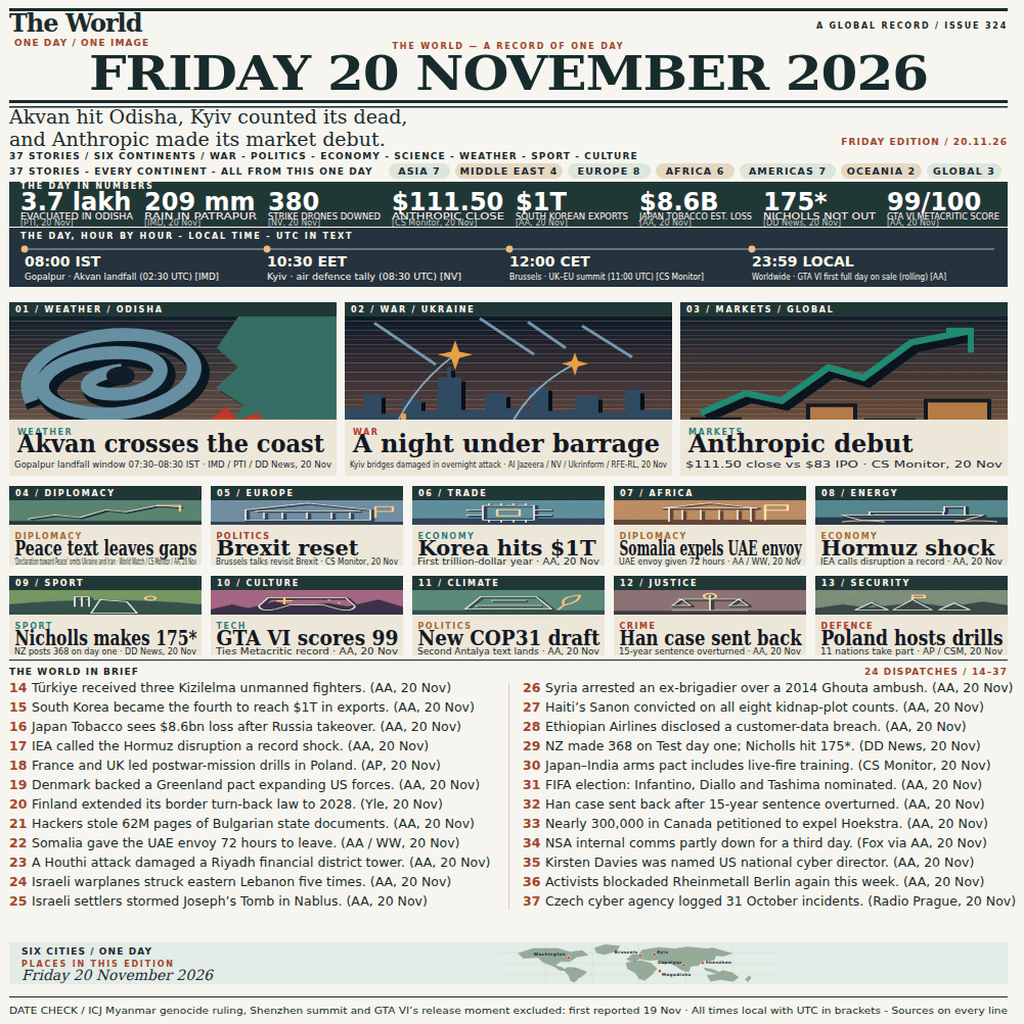
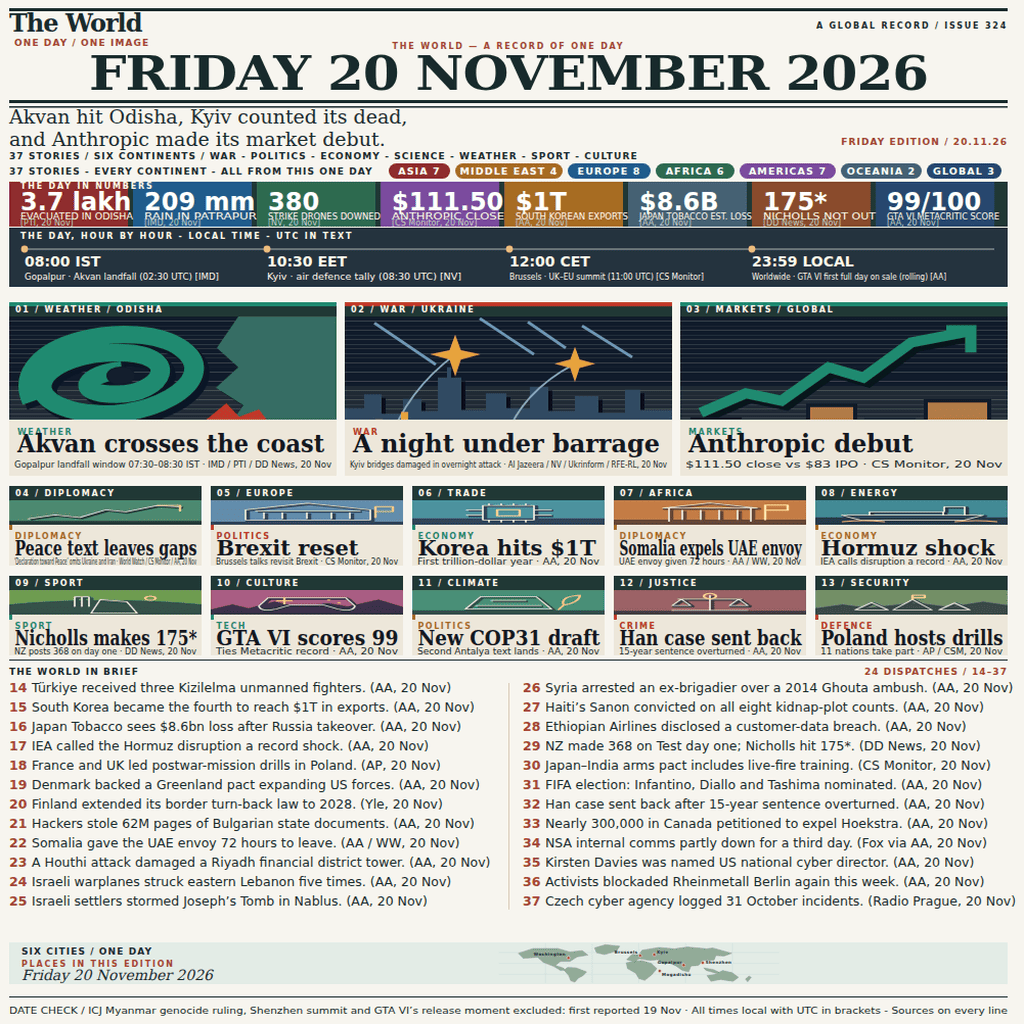
v5: colored stat tiles, region chips, bolder scenes

Changed region(s): [[0.0, 0.2812, 1.0, 0.4375], [0.0, 0.1562, 1.0, 0.2188], [0.5938, 0.4688, 0.7812, 0.5312]]

diff --git a/cand.html b/cand.html
@@ -27,13 +27,20 @@ text.label[text-anchor="middle"]{font-size:9.5px;font-weight:bold}
 g[data-number="1"],g[data-number="2"],g[data-number="3"]{transform:translateY(10px)}
 g[data-number="1"]>rect:first-child,g[data-number="2"]>rect:first-child,g[data-number="3"]>rect:first-child{height:170px}
 g[data-number="1"]>g>svg,g[data-number="2"]>g>svg,g[data-number="3"]>g>svg{height:101px}
-g[data-number="1"]>rect:nth-of-type(3),g[data-number="2"]>rect:nth-of-type(3),g[data-number="3"]>rect:nth-of-type(3),g[data-number="1"]>text:not(.micro),g[data-number="2"]>text:not(.micro),g[data-number="3"]>text:not(.micro){transform:translateY(-35px)}
+g[data-number="1"]>rect:nth-of-type(4),g[data-number="2"]>rect:nth-of-type(4),g[data-number="3"]>rect:nth-of-type(4),g[data-number="1"]>text:not(.micro),g[data-number="2"]>text:not(.micro),g[data-number="3"]>text:not(.micro){transform:translateY(-35px)}
 g[data-number="4"],g[data-number="5"],g[data-number="6"],g[data-number="7"],g[data-number="8"]{transform:translateY(-19px)}
 g[data-number="9"],g[data-number="10"],g[data-number="11"],g[data-number="12"],g[data-number="13"]{transform:translateY(-6px)}
 g[aria-label]:not([data-number="1"]):not([data-number="2"]):not([data-number="3"])>rect:first-child{height:78px}
 g[data-number="4"]>g>svg,g[data-number="5"]>g>svg,g[data-number="6"]>g>svg,g[data-number="7"]>g>svg,g[data-number="8"]>g>svg,g[data-number="9"]>g>svg,g[data-number="10"]>g>svg,g[data-number="11"]>g>svg,g[data-number="12"]>g>svg,g[data-number="13"]>g>svg{height:31px}
 g[data-number="4"]>rect:nth-of-type(3),g[data-number="5"]>rect:nth-of-type(3),g[data-number="6"]>rect:nth-of-type(3),g[data-number="7"]>rect:nth-of-type(3),g[data-number="8"]>rect:nth-of-type(3),g[data-number="9"]>rect:nth-of-type(3),g[data-number="10"]>rect:nth-of-type(3),g[data-number="11"]>rect:nth-of-type(3),g[data-number="12"]>rect:nth-of-type(3),g[data-number="13"]>rect:nth-of-type(3),g[data-number="4"]>text:not(.micro),g[data-number="5"]>text:not(.micro),g[data-number="6"]>text:not(.micro),g[data-number="7"]>text:not(.micro),g[data-number="8"]>text:not(.micro),g[data-number="9"]>text:not(.micro),g[data-number="10"]>text:not(.micro),g[data-number="11"]>text:not(.micro),g[data-number="12"]>text:not(.micro),g[data-number="13"]>text:not(.micro){transform:translateY(7px)}
 .rust{fill:#a34430}
+text.label[y="183"][text-anchor="middle"]{fill:#fff;font-weight:bold}
+g[data-number="1"]>g>svg>rect,g[data-number="2"]>g>svg>rect,g[data-number="3"]>g>svg>rect{fill:#101b2b}
+g[data-number="1"]>g>svg>rect:nth-child(n+16),g[data-number="2"]>g>svg>rect:nth-child(n+16),g[data-number="3"]>g>svg>rect:nth-child(n+16){fill:#202b35}
+g[data-number="1"]>g>svg>path[fill="#c0392b"]{fill:#c0392b;stroke:#c0392b;stroke-width:6}
+g[data-number="1"]>g>svg>path[stroke="#668fa2"]{stroke:#1f8a70;stroke-width:19}
+g[data-number="2"]>g>svg>g[fill="#e6a23c"]{fill:#e6a23c;stroke:#e6a23c;stroke-width:4}
+g[data-number="3"]>g>svg>path[stroke="#1f8a70"]{stroke:#1f8a70;stroke-width:11}
 </style>
 </head>
 <body>
@@ -53,21 +60,29 @@ g[data-number="4"]>rect:nth-of-type(3),g[data-number="5"]>rect:nth-of-type(3),g[
 <text x="1000" y="154" class="label rust" text-anchor="end">FRIDAY EDITION  /  20.11.26</text>
 <text x="24" y="168" class="label">37 STORIES / SIX CONTINENTS / WAR - POLITICS - ECONOMY - SCIENCE - WEATHER - SPORT - CULTURE</text>
 <text x="24" y="183" class="label">37 STORIES - EVERY CONTINENT - ALL FROM THIS ONE DAY</text>
-<rect x="395" y="172" width="60" height="15" rx="7.5" fill="#dce6da"/>
+<rect x="395" y="172" width="60" height="15" rx="7.5" fill="#8f2d2d"/>
 <text x="425" y="183" class="label" text-anchor="middle">ASIA 7</text>
-<rect x="460" y="172" width="105" height="15" rx="7.5" fill="#e6d8c2"/>
+<rect x="460" y="172" width="105" height="15" rx="7.5" fill="#a66c22"/>
 <text x="512.5" y="183" class="label" text-anchor="middle">MIDDLE EAST 4</text>
-<rect x="570" y="172" width="81" height="15" rx="7.5" fill="#dce6da"/>
+<rect x="570" y="172" width="81" height="15" rx="7.5" fill="#1f5c8b"/>
 <text x="610.5" y="183" class="label" text-anchor="middle">EUROPE 8</text>
-<rect x="656" y="172" width="77" height="15" rx="7.5" fill="#e6d8c2"/>
+<rect x="656" y="172" width="77" height="15" rx="7.5" fill="#2d6a4f"/>
 <text x="694.5" y="183" class="label" text-anchor="middle">AFRICA 6</text>
-<rect x="738" y="172" width="94" height="15" rx="7.5" fill="#dce6da"/>
+<rect x="738" y="172" width="94" height="15" rx="7.5" fill="#7a4b9d"/>
 <text x="785" y="183" class="label" text-anchor="middle">AMERICAS 7</text>
-<rect x="837" y="172" width="79" height="15" rx="7.5" fill="#e6d8c2"/>
+<rect x="837" y="172" width="79" height="15" rx="7.5" fill="#456173"/>
 <text x="876.5" y="183" class="label" text-anchor="middle">OCEANIA 2</text>
-<rect x="921" y="172" width="73" height="15" rx="7.5" fill="#dce6da"/>
+<rect x="921" y="172" width="73" height="15" rx="7.5" fill="#27476e"/>
 <text x="957.5" y="183" class="label" text-anchor="middle">GLOBAL 3</text>
 <rect x="24" y="190" width="976" height="44" fill="#203835"/>
+<rect x="24" y="190" width="116" height="44" fill="#8f2d2d"/>
+<rect x="145" y="190" width="116" height="44" fill="#1f5c8b"/>
+<rect x="266" y="190" width="116" height="44" fill="#2d6a4f"/>
+<rect x="387" y="190" width="116" height="44" fill="#7a4b9d"/>
+<rect x="508" y="190" width="116" height="44" fill="#a66c22"/>
+<rect x="629" y="190" width="116" height="44" fill="#456173"/>
+<rect x="750" y="190" width="116" height="44" fill="#8a4b2d"/>
+<rect x="871" y="190" width="116" height="44" fill="#27476e"/>
 <text x="35" y="197" class="micro reverse">THE DAY IN NUMBERS</text>
 <g data-stat="1">
 <text x="35" y="218" class="number">3.7 lakh</text>
@@ -129,7 +144,7 @@ g[data-number="4"]>rect:nth-of-type(3),g[data-number="5"]>rect:nth-of-type(3),g[
 <g transform="translate(24 298)" aria-hidden="true">
 <svg x="0" y="14" width="320" height="136" viewBox="0 0 320 150" preserveAspectRatio="none" overflow="hidden"><rect x="0" y="0.00" width="320" height="5.1" fill="#16202e"/><rect x="0" y="5.00" width="320" height="5.1" fill="#1a222f"/><rect x="0" y="10.00" width="320" height="5.1" fill="#1d2430"/><rect x="0" y="15.00" width="320" height="5.1" fill="#212731"/><rect x="0" y="20.00" width="320" height="5.1" fill="#252932"/><rect x="0" y="25.00" width="320" height="5.1" fill="#282b33"/><rect x="0" y="30.00" width="320" height="5.1" fill="#2c2d34"/><rect x="0" y="35.00" width="320" height="5.1" fill="#302f35"/><rect x="0" y="40.00" width="320" height="5.1" fill="#333236"/><rect x="0" y="45.00" width="320" height="5.1" fill="#373437"/><rect x="0" y="50.00" width="320" height="5.1" fill="#3b3638"/><rect x="0" y="55.00" width="320" height="5.1" fill="#3e3839"/><rect x="0" y="60.00" width="320" height="5.1" fill="#423a3a"/><rect x="0" y="65.00" width="320" height="5.1" fill="#463d3b"/><rect x="0" y="70.00" width="320" height="5.1" fill="#493f3c"/><rect x="0" y="75.00" width="320" height="5.1" fill="#4d413e"/><rect x="0" y="80.00" width="320" height="5.1" fill="#50433f"/><rect x="0" y="85.00" width="320" height="5.1" fill="#544640"/><rect x="0" y="90.00" width="320" height="5.1" fill="#584841"/><rect x="0" y="95.00" width="320" height="5.1" fill="#5b4a42"/><rect x="0" y="100.00" width="320" height="5.1" fill="#5f4c43"/><rect x="0" y="105.00" width="320" height="5.1" fill="#634e44"/><rect x="0" y="110.00" width="320" height="5.1" fill="#665145"/><rect x="0" y="115.00" width="320" height="5.1" fill="#6a5346"/><rect x="0" y="120.00" width="320" height="5.1" fill="#6e5547"/><rect x="0" y="125.00" width="320" height="5.1" fill="#715748"/><rect x="0" y="130.00" width="320" height="5.1" fill="#755949"/><rect x="0" y="135.00" width="320" height="5.1" fill="#795c4a"/><rect x="0" y="140.00" width="320" height="5.1" fill="#7c5e4b"/><rect x="0" y="145.00" width="320" height="5.1" fill="#80604c"/><path d="M224 0L203 34 224 55 202 77 229 96 214 119 248 150H320V0Z" fill="#0a151e" transform="translate(5 4)"/><path d="M224 0L203 34 224 55 202 77 229 96 214 119 248 150H320V0Z" fill="#366d64"/><path d="M22 92C-4 26 126 0 169 35S129 119 65 102 38 39 105 39 151 84 105 84 76 61 110 58" fill="none" stroke="#0c1723" stroke-width="20" transform="translate(5 5)"/><path d="M22 92C-4 26 126 0 169 35S129 119 65 102 38 39 105 39 151 84 105 84 76 61 110 58" fill="none" stroke="#668fa2" stroke-width="14"/><ellipse cx="109" cy="64" rx="14" ry="10" fill="#101d2b"/><path d="M191 117l21-19 12 14 19-8 19 28-39-10-16 11Z" fill="#c0392b"/><path d="M14 132l76-11m-46 23 86-11" stroke="#7aa3ad" stroke-width="3"/></svg>
 </g>
-<rect x="24" y="298" width="320" height="14" fill="#203835"/>
+<rect x="24" y="298" width="320" height="4" fill="#1f8a70"/><rect x="24" y="302" width="320" height="10" fill="#203835"/>
 <text x="30" y="308" class="micro reverse">01  /  WEATHER / ODISHA</text>
 <rect x="24" y="448" width="320" height="55" fill="#ede7da"/>
 <text x="32" y="463" class="kicker" style="fill:#1f8a70">WEATHER</text>
@@ -141,7 +156,7 @@ g[data-number="4"]>rect:nth-of-type(3),g[data-number="5"]>rect:nth-of-type(3),g[
 <g transform="translate(352 298)" aria-hidden="true">
 <svg x="0" y="14" width="320" height="136" viewBox="0 0 320 150" preserveAspectRatio="none" overflow="hidden"><rect x="0" y="0.00" width="320" height="5.1" fill="#101927"/><rect x="0" y="5.00" width="320" height="5.1" fill="#141b28"/><rect x="0" y="10.00" width="320" height="5.1" fill="#171d29"/><rect x="0" y="15.00" width="320" height="5.1" fill="#1b1f2b"/><rect x="0" y="20.00" width="320" height="5.1" fill="#1e212c"/><rect x="0" y="25.00" width="320" height="5.1" fill="#22222d"/><rect x="0" y="30.00" width="320" height="5.1" fill="#25242e"/><rect x="0" y="35.00" width="320" height="5.1" fill="#29262f"/><rect x="0" y="40.00" width="320" height="5.1" fill="#2c2830"/><rect x="0" y="45.00" width="320" height="5.1" fill="#302a32"/><rect x="0" y="50.00" width="320" height="5.1" fill="#332c33"/><rect x="0" y="55.00" width="320" height="5.1" fill="#372e34"/><rect x="0" y="60.00" width="320" height="5.1" fill="#3a3035"/><rect x="0" y="65.00" width="320" height="5.1" fill="#3e3236"/><rect x="0" y="70.00" width="320" height="5.1" fill="#413437"/><rect x="0" y="75.00" width="320" height="5.1" fill="#453539"/><rect x="0" y="80.00" width="320" height="5.1" fill="#48373a"/><rect x="0" y="85.00" width="320" height="5.1" fill="#4c393b"/><rect x="0" y="90.00" width="320" height="5.1" fill="#4f3b3c"/><rect x="0" y="95.00" width="320" height="5.1" fill="#533d3d"/><rect x="0" y="100.00" width="320" height="5.1" fill="#563f3e"/><rect x="0" y="105.00" width="320" height="5.1" fill="#5a4140"/><rect x="0" y="110.00" width="320" height="5.1" fill="#5d4341"/><rect x="0" y="115.00" width="320" height="5.1" fill="#614542"/><rect x="0" y="120.00" width="320" height="5.1" fill="#644743"/><rect x="0" y="125.00" width="320" height="5.1" fill="#684844"/><rect x="0" y="130.00" width="320" height="5.1" fill="#6b4a45"/><rect x="0" y="135.00" width="320" height="5.1" fill="#6f4c47"/><rect x="0" y="140.00" width="320" height="5.1" fill="#724e48"/><rect x="0" y="145.00" width="320" height="5.1" fill="#765049"/><path d="M0 127V99H19V84H36V105H57V89H75V102H91V66H100V55H104V66H114V101H138V83H158V99H181V76H199V102H225V86H248V104H274V79H289V101H320V150H0Z" fill="#080f19" transform="translate(4 4)"/><path d="M0 127V99H19V84H36V105H57V89H75V102H91V66H100V55H104V66H114V101H138V83H158V99H181V76H199V102H225V86H248V104H274V79H289V101H320V150H0Z" fill="#304a62"/><path d="M29 7l60 45M132 2l53 39M232 10l49 34M179 6l37 28" stroke="#7498b2" stroke-width="3"/><path d="M43 137Q60 81 108 41M155 138Q170 83 225 51" fill="none" stroke="#8ba8bb" stroke-width="2"/><g fill="#e6a23c"><path d="M108 26l4 12 13 3-13 4-4 13-4-13-13-4 13-3Z"/><path d="M225 39l3 9 10 3-10 3-3 10-3-10-10-3 10-3Z"/><path d="M30 113h5v7h-5m25-15h5v7h-5m96 7h5v7h-5m88-2h5v7h-5"/></g></svg>
 </g>
-<rect x="352" y="298" width="320" height="14" fill="#203835"/>
+<rect x="352" y="298" width="320" height="4" fill="#c0392b"/><rect x="352" y="302" width="320" height="10" fill="#203835"/>
 <text x="358" y="308" class="micro reverse">02  /  WAR / UKRAINE</text>
 <rect x="352" y="448" width="320" height="55" fill="#ede7da"/>
 <text x="360" y="463" class="kicker" style="fill:#c0392b">WAR</text>
@@ -153,7 +168,7 @@ g[data-number="4"]>rect:nth-of-type(3),g[data-number="5"]>rect:nth-of-type(3),g[
 <g transform="translate(680 298)" aria-hidden="true">
 <svg x="0" y="14" width="320" height="136" viewBox="0 0 320 150" preserveAspectRatio="none" overflow="hidden"><rect x="0" y="0.00" width="320" height="5.1" fill="#16202e"/><rect x="0" y="5.00" width="320" height="5.1" fill="#1a222e"/><rect x="0" y="10.00" width="320" height="5.1" fill="#1e242f"/><rect x="0" y="15.00" width="320" height="5.1" fill="#21262f"/><rect x="0" y="20.00" width="320" height="5.1" fill="#252830"/><rect x="0" y="25.00" width="320" height="5.1" fill="#292a30"/><rect x="0" y="30.00" width="320" height="5.1" fill="#2d2c31"/><rect x="0" y="35.00" width="320" height="5.1" fill="#312e31"/><rect x="0" y="40.00" width="320" height="5.1" fill="#353132"/><rect x="0" y="45.00" width="320" height="5.1" fill="#383332"/><rect x="0" y="50.00" width="320" height="5.1" fill="#3c3533"/><rect x="0" y="55.00" width="320" height="5.1" fill="#403733"/><rect x="0" y="60.00" width="320" height="5.1" fill="#443934"/><rect x="0" y="65.00" width="320" height="5.1" fill="#483b34"/><rect x="0" y="70.00" width="320" height="5.1" fill="#4c3d35"/><rect x="0" y="75.00" width="320" height="5.1" fill="#4f3f35"/><rect x="0" y="80.00" width="320" height="5.1" fill="#534136"/><rect x="0" y="85.00" width="320" height="5.1" fill="#574336"/><rect x="0" y="90.00" width="320" height="5.1" fill="#5b4537"/><rect x="0" y="95.00" width="320" height="5.1" fill="#5f4737"/><rect x="0" y="100.00" width="320" height="5.1" fill="#634938"/><rect x="0" y="105.00" width="320" height="5.1" fill="#664b38"/><rect x="0" y="110.00" width="320" height="5.1" fill="#6a4e39"/><rect x="0" y="115.00" width="320" height="5.1" fill="#6e5039"/><rect x="0" y="120.00" width="320" height="5.1" fill="#72523a"/><rect x="0" y="125.00" width="320" height="5.1" fill="#76543a"/><rect x="0" y="130.00" width="320" height="5.1" fill="#7a563b"/><rect x="0" y="135.00" width="320" height="5.1" fill="#7d583b"/><rect x="0" y="140.00" width="320" height="5.1" fill="#815a3c"/><rect x="0" y="145.00" width="320" height="5.1" fill="#855c3c"/><path d="M20 104L64 83 99 91 145 55 179 66 226 28 282 16" fill="none" stroke="#0a151c" stroke-width="11" transform="translate(5 5)"/><path d="M20 104L64 83 99 91 145 55 179 66 226 28 282 16" fill="none" stroke="#1f8a70" stroke-width="7"/><path d="M260 15h24v24" fill="none" stroke="#1f8a70" stroke-width="6"/><path d="M0 132h320v18H0Z" fill="#111b26"/><g fill="#b27b45" stroke="#111b26" stroke-width="4"><path d="M12 111h46v27H12Zm55 5h46v26H67Zm58-20h46v38h-46Zm57 16h46v29h-46Zm58-21h62v43h-62Z"/></g><g fill="#172735"><circle cx="40" cy="132" r="7"/><circle cx="96" cy="137" r="7"/><circle cx="151" cy="127" r="7"/><circle cx="208" cy="135" r="7"/><circle cx="274" cy="128" r="7"/></g></svg>
 </g>
-<rect x="680" y="298" width="320" height="14" fill="#203835"/>
+<rect x="680" y="298" width="320" height="4" fill="#1f8a70"/><rect x="680" y="302" width="320" height="10" fill="#203835"/>
 <text x="686" y="308" class="micro reverse">03  /  MARKETS / GLOBAL</text>
 <rect x="680" y="448" width="320" height="55" fill="#ede7da"/>
 <text x="688" y="463" class="kicker" style="fill:#1f8a70">MARKETS</text>
@@ -164,7 +179,7 @@ g[data-number="4"]>rect:nth-of-type(3),g[data-number="5"]>rect:nth-of-type(3),g[
 <rect x="24" y="507" width="188" height="71" fill="#ede7da"/>
 <g transform="translate(24 507)" aria-hidden="true">
 <svg x="0" y="14" width="188" height="24" viewBox="0 0 188 57" preserveAspectRatio="none" overflow="hidden">
-<rect x="0" y="0" width="188" height="57" fill="#5b8470"/>
+<rect x="0" y="0" width="188" height="57" fill="#4e8970"/>
 <path fill="#243a37" d="M0 48H188V57H0Z"/>
 <path d="M19 43L45 34l24 6 26-18 19 5 31-15 23 4" fill="none" stroke="#243a37" stroke-width="4.6" stroke-linejoin="round" transform="translate(2 2)"/>
 <path d="M19 43L45 34l24 6 26-18 19 5 31-15 23 4" fill="none" stroke="#e6e7d3" stroke-width="1.8" stroke-linejoin="round" stroke-linecap="round"/>
@@ -174,6 +189,7 @@ g[data-number="4"]>rect:nth-of-type(3),g[data-number="5"]>rect:nth-of-type(3),g[
 <rect x="24" y="507" width="188" height="14" fill="#203835"/>
 <text x="30" y="517" class="micro reverse">04  /  DIPLOMACY</text>
 <rect x="24" y="543" width="188" height="35" fill="#ede7da"/>
+<rect x="24" y="507" width="3" height="78" fill="#a66c22"/>
 <text x="29.5" y="552" class="kicker" style="fill:#a66c22">DIPLOMACY</text>
 <text x="29.5" y="568" class="headline" textLength="178" lengthAdjust="spacingAndGlyphs">Peace text leaves gaps</text>
 <text x="29" y="577" class="copy" textLength="178" lengthAdjust="spacingAndGlyphs">‘Declaration toward Peace’ omits Ukraine and Iran · World Watch / CS Monitor / AA, 20 Nov</text>
@@ -182,7 +198,7 @@ g[data-number="4"]>rect:nth-of-type(3),g[data-number="5"]>rect:nth-of-type(3),g[
 <rect x="221" y="507" width="188" height="71" fill="#ede7da"/>
 <g transform="translate(221 507)" aria-hidden="true">
 <svg x="0" y="14" width="188" height="24" viewBox="0 0 188 57" preserveAspectRatio="none" overflow="hidden">
-<rect x="0" y="0" width="188" height="57" fill="#708da1"/>
+<rect x="0" y="0" width="188" height="57" fill="#638daa"/>
 <path fill="#34435b" d="M0 50H188V57H0Z"/>
 <path d="M34 46V22l61-15 61 15v24ZM44 25h102M52 29v14m18-14v14m24-14v14m24-14v14m18-14v14" fill="none" stroke="#34435b" stroke-width="4.6" stroke-linejoin="round" transform="translate(2 2)"/>
 <path d="M34 46V22l61-15 61 15v24ZM44 25h102M52 29v14m18-14v14m24-14v14m24-14v14m18-14v14" fill="none" stroke="#e6e7d3" stroke-width="1.8" stroke-linejoin="round" stroke-linecap="round"/>
@@ -192,6 +208,7 @@ g[data-number="4"]>rect:nth-of-type(3),g[data-number="5"]>rect:nth-of-type(3),g[
 <rect x="221" y="507" width="188" height="14" fill="#203835"/>
 <text x="227" y="517" class="micro reverse">05  /  EUROPE</text>
 <rect x="221" y="543" width="188" height="35" fill="#ede7da"/>
+<rect x="221" y="507" width="3" height="78" fill="#c0392b"/>
 <text x="226.5" y="552" class="kicker" style="fill:#c0392b">POLITICS</text>
 <text x="226.5" y="568" class="headline">Brexit reset</text>
 <text x="226" y="577" class="copy" textLength="178" lengthAdjust="spacingAndGlyphs">Brussels talks revisit Brexit · CS Monitor, 20 Nov</text>
@@ -200,7 +217,7 @@ g[data-number="4"]>rect:nth-of-type(3),g[data-number="5"]>rect:nth-of-type(3),g[
 <rect x="418" y="507" width="188" height="71" fill="#ede7da"/>
 <g transform="translate(418 507)" aria-hidden="true">
 <svg x="0" y="14" width="188" height="24" viewBox="0 0 188 57" preserveAspectRatio="none" overflow="hidden">
-<rect x="0" y="0" width="188" height="57" fill="#5e8e99"/>
+<rect x="0" y="0" width="188" height="57" fill="#4d929e"/>
 <path fill="#314359" d="M0 42h188v15H0Z"/>
 <path d="M69 12h50v34H69ZM75 8v4m12-4v4m12-4v4m12-4v4M75 46v5m12-5v5m12-5v5m12-5v5M53 22h16m50 0h17M53 35h16m50 0h17" fill="none" stroke="#314359" stroke-width="4.6" stroke-linejoin="round" transform="translate(2 2)"/>
 <path d="M69 12h50v34H69ZM75 8v4m12-4v4m12-4v4m12-4v4M75 46v5m12-5v5m12-5v5m12-5v5M53 22h16m50 0h17M53 35h16m50 0h17" fill="none" stroke="#e6e7d3" stroke-width="1.8" stroke-linejoin="round" stroke-linecap="round"/>
@@ -210,6 +227,7 @@ g[data-number="4"]>rect:nth-of-type(3),g[data-number="5"]>rect:nth-of-type(3),g[
 <rect x="418" y="507" width="188" height="14" fill="#203835"/>
 <text x="424" y="517" class="micro reverse">06  /  TRADE</text>
 <rect x="418" y="543" width="188" height="35" fill="#ede7da"/>
+<rect x="418" y="507" width="3" height="78" fill="#1f8a70"/>
 <text x="423.5" y="552" class="kicker" style="fill:#1f8a70">ECONOMY</text>
 <text x="423.5" y="568" class="headline">Korea hits $1T</text>
 <text x="423" y="577" class="copy" textLength="178" lengthAdjust="spacingAndGlyphs">First trillion-dollar year · AA, 20 Nov</text>
@@ -218,7 +236,7 @@ g[data-number="4"]>rect:nth-of-type(3),g[data-number="5"]>rect:nth-of-type(3),g[
 <rect x="615" y="507" width="188" height="71" fill="#ede7da"/>
 <g transform="translate(615 507)" aria-hidden="true">
 <svg x="0" y="14" width="188" height="24" viewBox="0 0 188 57" preserveAspectRatio="none" overflow="hidden">
-<rect x="0" y="0" width="188" height="57" fill="#bc8c65"/>
+<rect x="0" y="0" width="188" height="57" fill="#c47c45"/>
 <path fill="#634637" d="M0 45h188v12H0Z"/>
 <path d="M54 49V18h80v31M48 18L94 6l46 12ZM67 23v22m18-22v22m18-22v22m18-22v22" fill="none" stroke="#634637" stroke-width="4.6" stroke-linejoin="round" transform="translate(2 2)"/>
 <path d="M54 49V18h80v31M48 18L94 6l46 12ZM67 23v22m18-22v22m18-22v22m18-22v22" fill="none" stroke="#e6e7d3" stroke-width="1.8" stroke-linejoin="round" stroke-linecap="round"/>
@@ -228,6 +246,7 @@ g[data-number="4"]>rect:nth-of-type(3),g[data-number="5"]>rect:nth-of-type(3),g[
 <rect x="615" y="507" width="188" height="14" fill="#203835"/>
 <text x="621" y="517" class="micro reverse">07  /  AFRICA</text>
 <rect x="615" y="543" width="188" height="35" fill="#ede7da"/>
+<rect x="615" y="507" width="3" height="78" fill="#a66c22"/>
 <text x="620.5" y="552" class="kicker" style="fill:#a66c22">DIPLOMACY</text>
 <text x="620.5" y="568" class="headline" textLength="178" lengthAdjust="spacingAndGlyphs">Somalia expels UAE envoy</text>
 <text x="620" y="577" class="copy" textLength="178" lengthAdjust="spacingAndGlyphs">UAE envoy given 72 hours · AA / WW, 20 Nov</text>
@@ -236,7 +255,7 @@ g[data-number="4"]>rect:nth-of-type(3),g[data-number="5"]>rect:nth-of-type(3),g[
 <rect x="812" y="507" width="188" height="71" fill="#ede7da"/>
 <g transform="translate(812 507)" aria-hidden="true">
 <svg x="0" y="14" width="188" height="24" viewBox="0 0 188 57" preserveAspectRatio="none" overflow="hidden">
-<rect x="0" y="0" width="188" height="57" fill="#53868c"/>
+<rect x="0" y="0" width="188" height="57" fill="#428a94"/>
 <path fill="#243a49" d="M0 40h188v17H0Z"/>
 <path d="M26 35h138l-18 11H44ZM53 27h72v8H53Zm73 0V15h20v20m-24-8H60" fill="none" stroke="#243a49" stroke-width="4.6" stroke-linejoin="round" transform="translate(2 2)"/>
 <path d="M26 35h138l-18 11H44ZM53 27h72v8H53Zm73 0V15h20v20m-24-8H60" fill="none" stroke="#e6e7d3" stroke-width="1.8" stroke-linejoin="round" stroke-linecap="round"/>
@@ -246,6 +265,7 @@ g[data-number="4"]>rect:nth-of-type(3),g[data-number="5"]>rect:nth-of-type(3),g[
 <rect x="812" y="507" width="188" height="14" fill="#203835"/>
 <text x="818" y="517" class="micro reverse">08  /  ENERGY</text>
 <rect x="812" y="543" width="188" height="35" fill="#ede7da"/>
+<rect x="812" y="507" width="3" height="78" fill="#a66c22"/>
 <text x="817.5" y="552" class="kicker" style="fill:#a66c22">ECONOMY</text>
 <text x="817.5" y="568" class="headline">Hormuz shock</text>
 <text x="817" y="577" class="copy" textLength="178" lengthAdjust="spacingAndGlyphs">IEA calls disruption a record · AA, 20 Nov</text>
@@ -254,7 +274,7 @@ g[data-number="4"]>rect:nth-of-type(3),g[data-number="5"]>rect:nth-of-type(3),g[
 <rect x="24" y="582" width="188" height="71" fill="#ede7da"/>
 <g transform="translate(24 582)" aria-hidden="true">
 <svg x="0" y="14" width="188" height="24" viewBox="0 0 188 57" preserveAspectRatio="none" overflow="hidden">
-<rect x="0" y="0" width="188" height="57" fill="#779762"/>
+<rect x="0" y="0" width="188" height="57" fill="#6f9c50"/>
 <path fill="#355147" d="M0 33q94-20 188 0v24H0Z"/>
 <path d="M80 54l9-32 26 5 10 27ZM78 16v22m-7-22v22m-7-22v22m0-22h14" fill="none" stroke="#355147" stroke-width="4.6" stroke-linejoin="round" transform="translate(2 2)"/>
 <path d="M80 54l9-32 26 5 10 27ZM78 16v22m-7-22v22m-7-22v22m0-22h14" fill="none" stroke="#e6e7d3" stroke-width="1.8" stroke-linejoin="round" stroke-linecap="round"/>
@@ -264,6 +284,7 @@ g[data-number="4"]>rect:nth-of-type(3),g[data-number="5"]>rect:nth-of-type(3),g[
 <rect x="24" y="582" width="188" height="14" fill="#203835"/>
 <text x="30" y="592" class="micro reverse">09  /  SPORT</text>
 <rect x="24" y="618" width="188" height="35" fill="#ede7da"/>
+<rect x="24" y="582" width="3" height="78" fill="#1f8a70"/>
 <text x="29.5" y="627" class="kicker" style="fill:#1f8a70">SPORT</text>
 <text x="29.5" y="643" class="headline" textLength="178" lengthAdjust="spacingAndGlyphs">Nicholls makes 175*</text>
 <text x="29" y="652" class="copy" textLength="178" lengthAdjust="spacingAndGlyphs">NZ posts 368 on day one · DD News, 20 Nov</text>
@@ -272,7 +293,7 @@ g[data-number="4"]>rect:nth-of-type(3),g[data-number="5"]>rect:nth-of-type(3),g[
 <rect x="221" y="582" width="188" height="71" fill="#ede7da"/>
 <g transform="translate(221 582)" aria-hidden="true">
 <svg x="0" y="14" width="188" height="24" viewBox="0 0 188 57" preserveAspectRatio="none" overflow="hidden">
-<rect x="0" y="0" width="188" height="57" fill="#a46683"/>
+<rect x="0" y="0" width="188" height="57" fill="#aa5d83"/>
 <path fill="#3b304a" d="M0 45l21-12 16 9 25-15 23 11 30-8 19 8 30-16 24 17v18H0Z"/>
 <path d="M47 37L56 18h76l9 19q-2 15-17 7l-13-9H77l-13 9q-15 8-17-7Z" fill="none" stroke="#3b304a" stroke-width="4.6" stroke-linejoin="round" transform="translate(2 2)"/>
 <path d="M47 37L56 18h76l9 19q-2 15-17 7l-13-9H77l-13 9q-15 8-17-7Z" fill="none" stroke="#e6e7d3" stroke-width="1.8" stroke-linejoin="round" stroke-linecap="round"/>
@@ -282,6 +303,7 @@ g[data-number="4"]>rect:nth-of-type(3),g[data-number="5"]>rect:nth-of-type(3),g[
 <rect x="221" y="582" width="188" height="14" fill="#203835"/>
 <text x="227" y="592" class="micro reverse">10  /  CULTURE</text>
 <rect x="221" y="618" width="188" height="35" fill="#ede7da"/>
+<rect x="221" y="582" width="3" height="78" fill="#1f8a70"/>
 <text x="226.5" y="627" class="kicker" style="fill:#1f8a70">TECH</text>
 <text x="226.5" y="643" class="headline" textLength="178" lengthAdjust="spacingAndGlyphs">GTA VI scores 99</text>
 <text x="226" y="652" class="copy" textLength="178" lengthAdjust="spacingAndGlyphs">Ties Metacritic record · AA, 20 Nov</text>
@@ -290,7 +312,7 @@ g[data-number="4"]>rect:nth-of-type(3),g[data-number="5"]>rect:nth-of-type(3),g[
 <rect x="418" y="582" width="188" height="71" fill="#ede7da"/>
 <g transform="translate(418 582)" aria-hidden="true">
 <svg x="0" y="14" width="188" height="24" viewBox="0 0 188 57" preserveAspectRatio="none" overflow="hidden">
-<rect x="0" y="0" width="188" height="57" fill="#5c8a79"/>
+<rect x="0" y="0" width="188" height="57" fill="#488f77"/>
 <path fill="#31504d" d="M0 47h188v10H0Z"/>
 <path d="M52 44h84L121 15H67ZM62 36h64M77 24h34" fill="none" stroke="#31504d" stroke-width="4.6" stroke-linejoin="round" transform="translate(2 2)"/>
 <path d="M52 44h84L121 15H67ZM62 36h64M77 24h34" fill="none" stroke="#e6e7d3" stroke-width="1.8" stroke-linejoin="round" stroke-linecap="round"/>
@@ -300,6 +322,7 @@ g[data-number="4"]>rect:nth-of-type(3),g[data-number="5"]>rect:nth-of-type(3),g[
 <rect x="418" y="582" width="188" height="14" fill="#203835"/>
 <text x="424" y="592" class="micro reverse">11  /  CLIMATE</text>
 <rect x="418" y="618" width="188" height="35" fill="#ede7da"/>
+<rect x="418" y="582" width="3" height="78" fill="#a66c22"/>
 <text x="423.5" y="627" class="kicker" style="fill:#a66c22">POLITICS</text>
 <text x="423.5" y="643" class="headline" textLength="178" lengthAdjust="spacingAndGlyphs">New COP31 draft</text>
 <text x="423" y="652" class="copy" textLength="178" lengthAdjust="spacingAndGlyphs">Second Antalya text lands · AA, 20 Nov</text>
@@ -308,7 +331,7 @@ g[data-number="4"]>rect:nth-of-type(3),g[data-number="5"]>rect:nth-of-type(3),g[
 <rect x="615" y="582" width="188" height="71" fill="#ede7da"/>
 <g transform="translate(615 582)" aria-hidden="true">
 <svg x="0" y="14" width="188" height="24" viewBox="0 0 188 57" preserveAspectRatio="none" overflow="hidden">
-<rect x="0" y="0" width="188" height="57" fill="#8d7274"/>
+<rect x="0" y="0" width="188" height="57" fill="#9b6266"/>
 <path fill="#423b43" d="M0 48h188v9H0Z"/>
 <path d="M57 47h74m-37-35v35m-31-26h62M66 21l-9 15h18Zm56 0-9 15h18Z" fill="none" stroke="#423b43" stroke-width="4.6" stroke-linejoin="round" transform="translate(2 2)"/>
 <path d="M57 47h74m-37-35v35m-31-26h62M66 21l-9 15h18Zm56 0-9 15h18Z" fill="none" stroke="#e6e7d3" stroke-width="1.8" stroke-linejoin="round" stroke-linecap="round"/>
@@ -318,6 +341,7 @@ g[data-number="4"]>rect:nth-of-type(3),g[data-number="5"]>rect:nth-of-type(3),g[
 <rect x="615" y="582" width="188" height="14" fill="#203835"/>
 <text x="621" y="592" class="micro reverse">12  /  JUSTICE</text>
 <rect x="615" y="618" width="188" height="35" fill="#ede7da"/>
+<rect x="615" y="582" width="3" height="78" fill="#c0392b"/>
 <text x="620.5" y="627" class="kicker" style="fill:#c0392b">CRIME</text>
 <text x="620.5" y="643" class="headline" textLength="178" lengthAdjust="spacingAndGlyphs">Han case sent back</text>
 <text x="620" y="652" class="copy" textLength="178" lengthAdjust="spacingAndGlyphs">15-year sentence overturned · AA, 20 Nov</text>
@@ -326,7 +350,7 @@ g[data-number="4"]>rect:nth-of-type(3),g[data-number="5"]>rect:nth-of-type(3),g[
 <rect x="812" y="582" width="188" height="71" fill="#ede7da"/>
 <g transform="translate(812 582)" aria-hidden="true">
 <svg x="0" y="14" width="188" height="24" viewBox="0 0 188 57" preserveAspectRatio="none" overflow="hidden">
-<rect x="0" y="0" width="188" height="57" fill="#7c8d78"/>
+<rect x="0" y="0" width="188" height="57" fill="#738f67"/>
 <path fill="#3c4944" d="M0 42l27-9 24 8 48-12 32 10 33-12 24 8v22H0Z"/>
 <path d="M39 46l16-17 16 17Zm37 0 19-24 19 24Zm45 0 15-16 15 16Z" fill="none" stroke="#3c4944" stroke-width="4.6" stroke-linejoin="round" transform="translate(2 2)"/>
 <path d="M39 46l16-17 16 17Zm37 0 19-24 19 24Zm45 0 15-16 15 16Z" fill="none" stroke="#e6e7d3" stroke-width="1.8" stroke-linejoin="round" stroke-linecap="round"/>
@@ -336,6 +360,7 @@ g[data-number="4"]>rect:nth-of-type(3),g[data-number="5"]>rect:nth-of-type(3),g[
 <rect x="812" y="582" width="188" height="14" fill="#203835"/>
 <text x="818" y="592" class="micro reverse">13  /  SECURITY</text>
 <rect x="812" y="618" width="188" height="35" fill="#ede7da"/>
+<rect x="812" y="582" width="3" height="78" fill="#c0392b"/>
 <text x="817.5" y="627" class="kicker" style="fill:#c0392b">DEFENCE</text>
 <text x="817.5" y="643" class="headline" textLength="178" lengthAdjust="spacingAndGlyphs">Poland hosts drills</text>
 <text x="817" y="652" class="copy" textLength="178" lengthAdjust="spacingAndGlyphs">11 nations take part · AP / CSM, 20 Nov</text>
